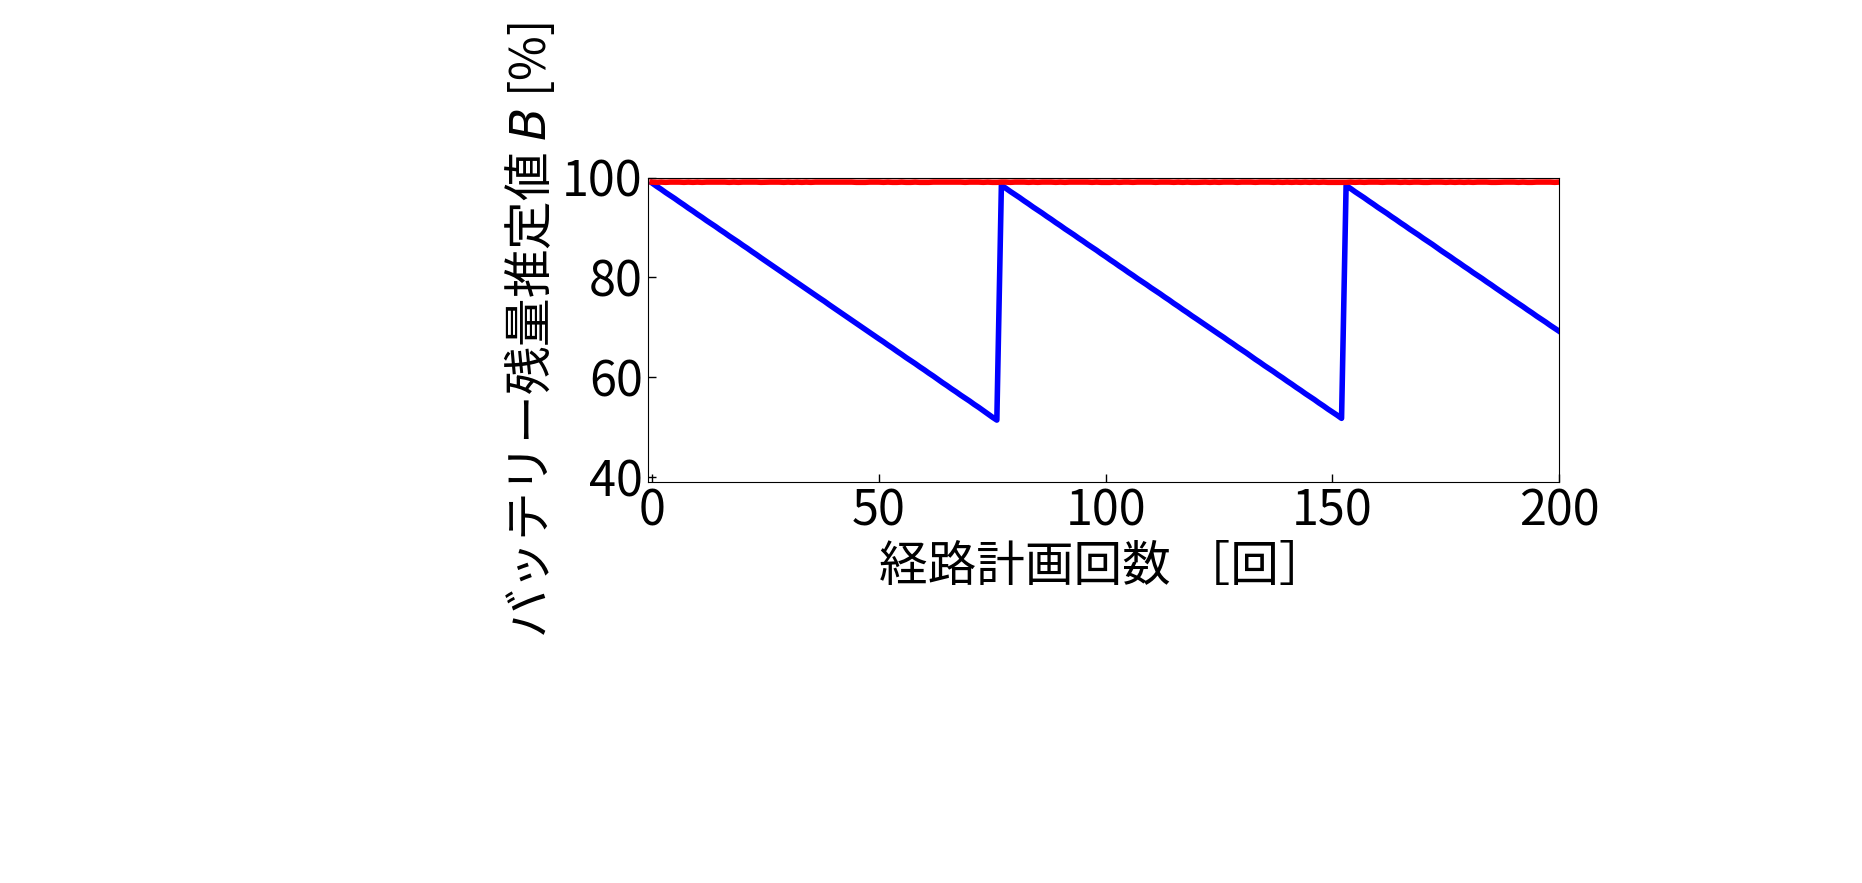
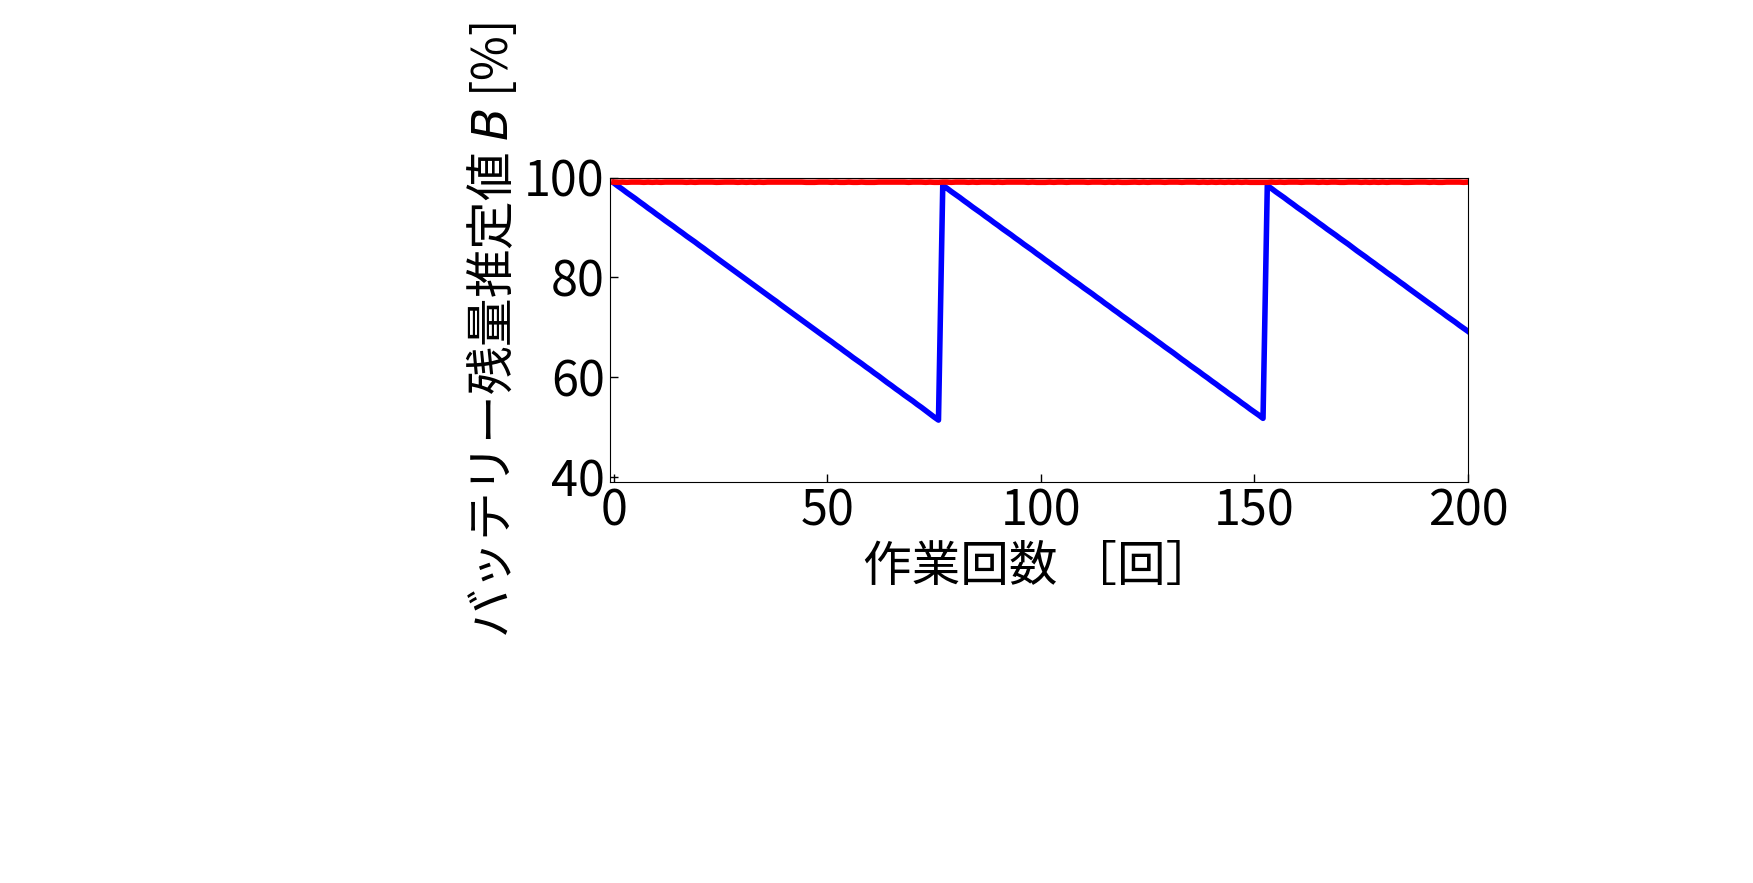
edit img

diff --git a/si2024/scripts/dynamic-B.py b/si2024/scripts/dynamic-B.py
@@ -48,7 +48,7 @@ plt.plot(task_data, B_charge_data, linestyle='-', color='r', linewidth=4, label=
 # plt.scatter(time_data, B_short_data, color='b', s=20, label='Priority Short')  # 青色の散布図
 # plt.scatter(time_data, B_charge_data, color='r', s=20, label='Priority Charge')  # 赤色の散布図
 # 軸ラベルの設定
-plt.xlabel('経路計画回数 ［回］')
+plt.xlabel('作業回数 ［回］')
 plt.ylabel('バッテリー残量推定値 $B$ [%]')
 
 # グリッド非表示

diff --git a/si2024/scripts/static-B.py b/si2024/scripts/static-B.py
@@ -48,7 +48,7 @@ plt.plot(task_data, B_charge_data, linestyle='-', color='r', linewidth=4, label=
 # plt.scatter(time_data, B_short_data, color='b', s=20, label='Priority Short')  # 青色の散布図
 # plt.scatter(time_data, B_charge_data, color='r', s=20, label='Priority Charge')  # 赤色の散布図
 # 軸ラベルの設定
-plt.xlabel('経路計画回数 ［回］')
+plt.xlabel('作業回数 ［回］')
 plt.ylabel('バッテリー残量推定値 $B$ [%]')
 
 # グリッド非表示

diff --git a/si2024/scripts/dynamic-P.py b/si2024/scripts/dynamic-P.py
@@ -48,7 +48,7 @@ plt.plot(task_data, priority_charge_data, linestyle='-', color='r', linewidth=4,
 # plt.scatter(time_data, priority_short_data, color='b', s=20, label='Priority Short')  # 青色の散布図
 # plt.scatter(time_data, priority_charge_data, color='r', s=20, label='Priority Charge')  # 赤色の散布図
 # 軸ラベルの設定
-plt.xlabel('経路計画回数 ［回］')
+plt.xlabel('作業回数 ［回］')
 plt.ylabel('優先度 $P$ [%/m]')
 
 # グリッド非表示

diff --git a/si2024/scripts/dynamic-c.py b/si2024/scripts/dynamic-c.py
@@ -48,7 +48,7 @@ plt.plot(task_data, cost_charge_data, linestyle='-', color='r', linewidth=4, lab
 # plt.scatter(time_data, cost_short_data, color='b', s=20, label='Priority Short')  # 青色の散布図
 # plt.scatter(time_data, cost_charge_data, color='r', s=20, label='Priority Charge')  # 赤色の散布図
 # 軸ラベルの設定
-plt.xlabel('経路計画回数 ［回］')
+plt.xlabel('作業回数 ［回］')
 plt.ylabel('経路長 $c$ [m]')
 
 # グリッド非表示

diff --git a/si2024/scripts/static-c.py b/si2024/scripts/static-c.py
@@ -48,7 +48,7 @@ plt.plot(task_data, cost_charge_data, linestyle='-', color='r', linewidth=4, lab
 # plt.scatter(time_data, cost_short_data, color='b', s=20, label='Priority Short')  # 青色の散布図
 # plt.scatter(time_data, cost_charge_data, color='r', s=20, label='Priority Charge')  # 赤色の散布図
 # 軸ラベルの設定
-plt.xlabel('経路計画回数 ［回］')
+plt.xlabel('作業回数 ［回］')
 plt.ylabel('経路長 $c$ [m]')
 
 # グリッド非表示

diff --git a/si2024/scripts/static-P.py b/si2024/scripts/static-P.py
@@ -50,7 +50,7 @@ plt.plot(task_data, priority_charge_data, linestyle='-', color='r', linewidth=4,
 # plt.scatter(time_data, priority_charge_data, color='r', s=20, label='Priority Charge')  # 赤色の散布図
 
 # 軸ラベルの設定
-plt.xlabel('経路計画回数 ［回］')
+plt.xlabel('作業回数 ［回］')
 plt.ylabel('優先度 $P$ [%/m]')
 
 # グリッド非表示
